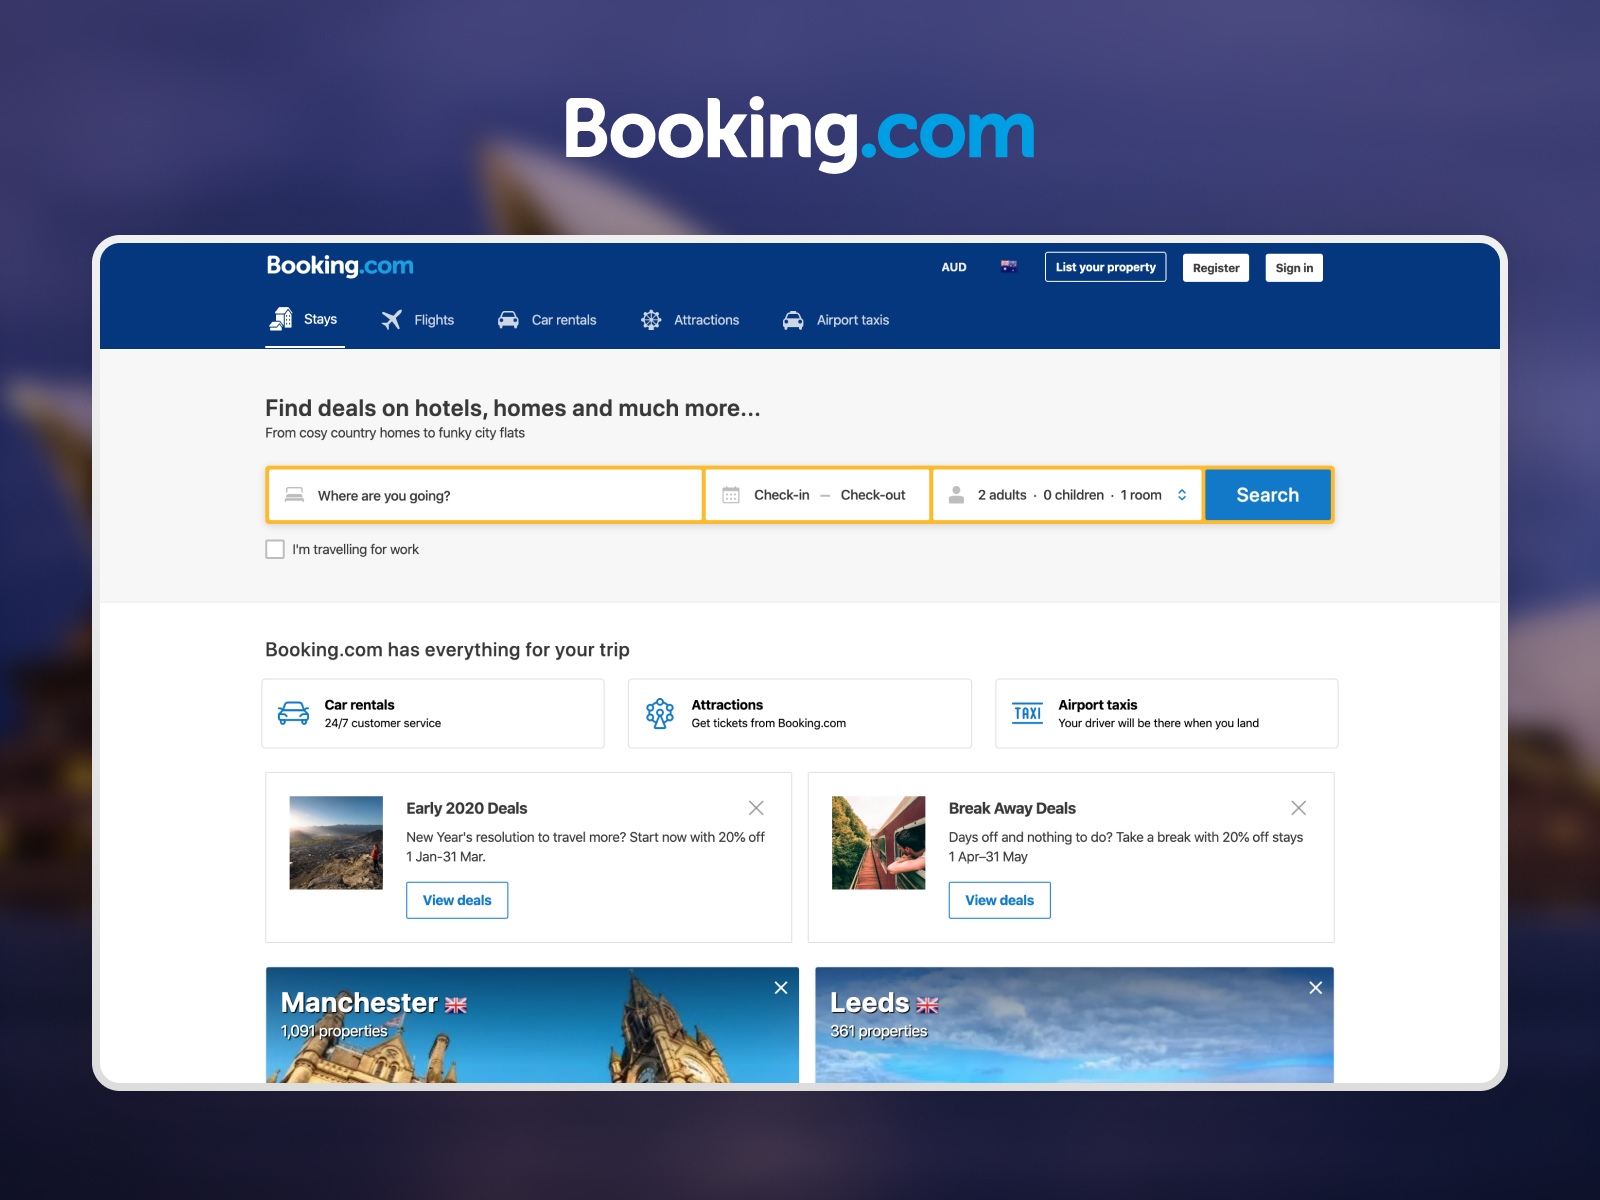
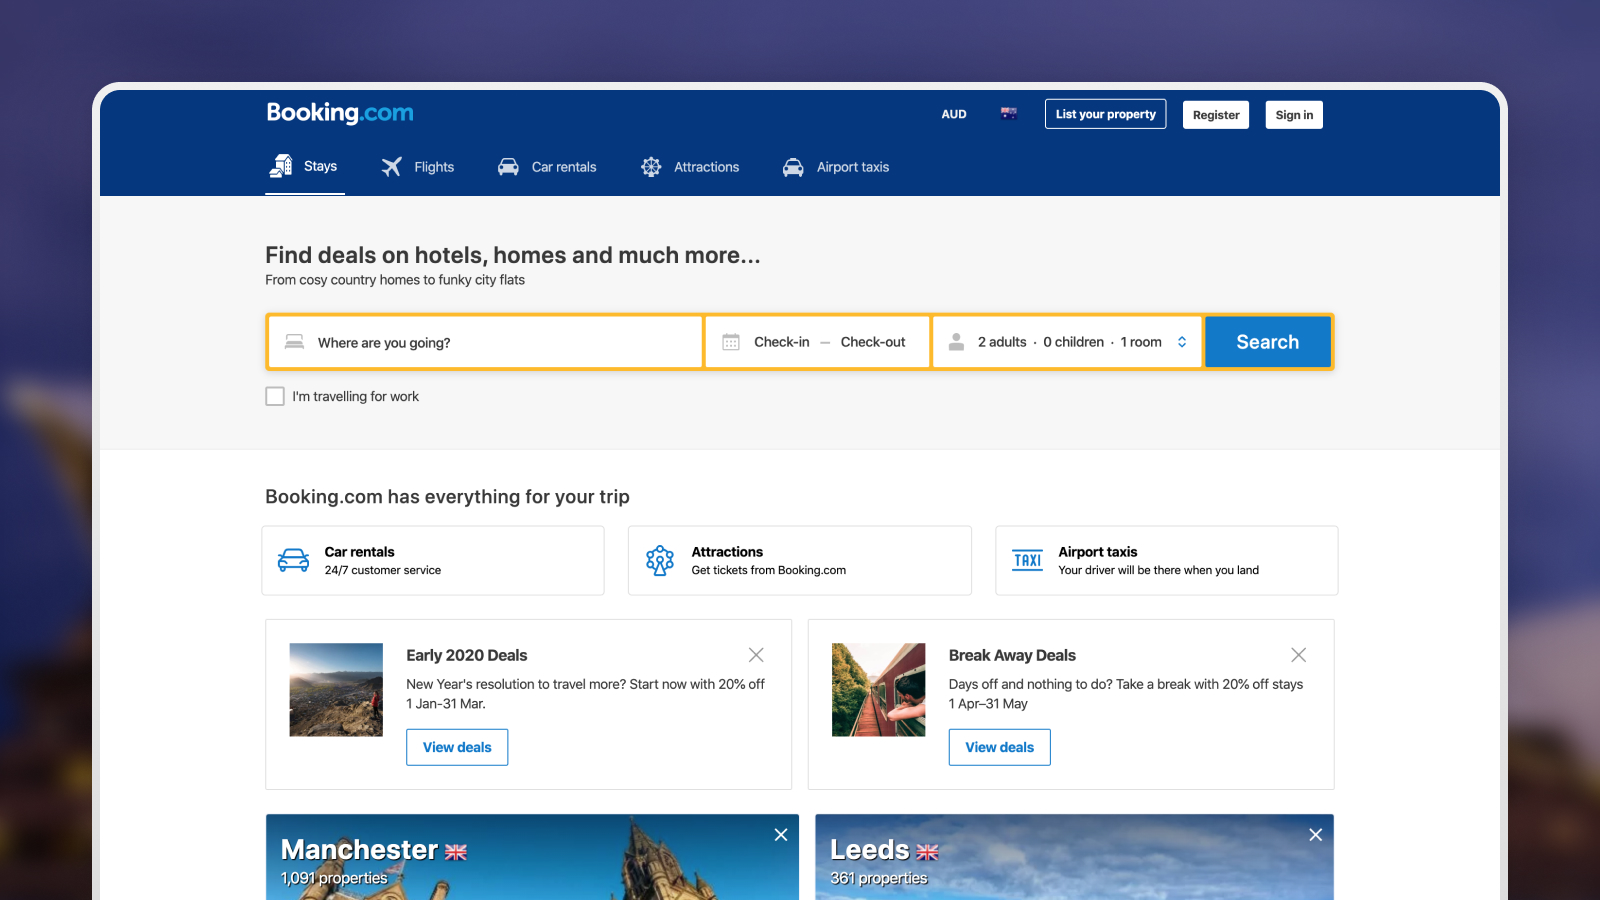
new primary colour

diff --git a/index.html b/index.html
@@ -25,7 +25,7 @@ activeNav: 1
       <div class="showcaseCardsCard">
         <a class="card" href="/portfolio#gizaAR">
           <div class="cardImage">
-            <img src="/assets/images/portfolio_giza_3.jpg" alt="" width="1600" height="1200">
+            <img src="/assets/images/portfolio_giza_3.jpg" alt="" width="1600" height="900">
           </div>
           <h3>Giza AR</h3>
           <p>Creating an AR "window into the past" at the Great Pyramids of Giza, Egypt.</p>
@@ -34,7 +34,7 @@ activeNav: 1
       <div class="showcaseCardsCard">
         <a class="card" href="/portfolio#Booking">
           <div class="cardImage">
-            <img src="/assets/images/portfolio_booking_1.jpg" alt="" width="1600" height="1200">
+            <img src="/assets/images/portfolio_booking_1.jpg" alt="" width="1600" height="900">
           </div>
           <h3>Booking.com</h3>
           <p>Designing the payment experience at Booking.com headquarters in Amsterdam, Netherlands.</p>
@@ -43,7 +43,7 @@ activeNav: 1
       <div class="showcaseCardsCard">
         <a class="card" href="/portfolio#GA">
           <div class="cardImage">
-            <img src="/assets/images/portfolio_ga_1.jpg" alt="" width="1600" height="1200">
+            <img src="/assets/images/portfolio_ga_1.jpg" alt="" width="1600" height="900">
           </div>
           <h3>Teaching UX Design at General Assembly</h3>
           <p>Leading the kickstart of 18 new design careers in Melbourne, Australia.</p>
@@ -52,7 +52,7 @@ activeNav: 1
       <div class="showcaseCardsCard">
         <a class="card" href="/portfolio#publicArt">
           <div class="cardImage">
-            <img src="/assets/images/portfolio_publicArt_1.jpg" alt="" width="1600" height="1200">
+            <img src="/assets/images/portfolio_publicArt_1.jpg" alt="" width="1600" height="900">
           </div>
           <h3>Boston North End Public Art</h3>
           <p>An AR app aimed at cultural preservation an iconic neighbourhood in Boston, USA.</p>
@@ -61,7 +61,7 @@ activeNav: 1
       <div class="showcaseCardsCard">
         <a class="card" href="/portfolio#ideaverse">
           <div class="cardImage">
-            <img src="/assets/images/portfolio_ideaverse_1.jpg" alt="" width="1600" height="1200">
+            <img src="/assets/images/portfolio_ideaverse_1.jpg" alt="" width="1600" height="900">
           </div>
           <h3>Ideaverse Machine Learning App</h3>
           <p>Going from concept to prototype for an AI startup in Berlin, Germany.</p>
@@ -70,7 +70,7 @@ activeNav: 1
       <div class="showcaseCardsCard">
         <a class="card" href="/portfolio#ZJUMAA">
           <div class="cardImage">
-            <img src="/assets/images/portfolio_zjumaa_4.jpg" alt="" width="1600" height="1200">
+            <img src="/assets/images/portfolio_zjumaa_4.jpg" alt="" width="1600" height="900">
           </div>
           <h3>AR Tour App for Zhejiang University Museum</h3>
           <p>Designing a captivating AR experience for a brand new archaeology museum in Zheijiang, China.</p>
@@ -88,7 +88,7 @@ activeNav: 1
       <div class="showcaseCardsCard">
         <a class="card" href="/portfolio#nsw">
           <div class="cardImage">
-            <img src="/assets/images/portfolio_nsw_1.jpg" alt="" width="1600" height="1200">
+            <img src="/assets/images/portfolio_nsw_1.jpg" alt="" width="1600" height="900">
           </div>
           <h3>NSW Climate Data Portal</h3>
           <p>Designing an open data portal holding terabytes of climate data for the New South Wales government.</p>

diff --git a/_sass/modules/_quote.sass b/_sass/modules/_quote.sass
@@ -56,7 +56,7 @@
   @media (min-width: $breakpoint_2)
     margin-right: 25px
   img
-    border: 4px solid $color_primary_600
+    border: 4px solid $color_primary_500
     border-radius: 50%
     display: block
     height: 70px
@@ -70,7 +70,7 @@
   a
     +body2
     border-bottom: none
-    color: $color_primary_600
+    color: $color_primary_500
     display: block
     font-weight: 700
     margin-bottom: 5px

diff --git a/_sass/utilities/_settings.sass b/_sass/utilities/_settings.sass
@@ -1,5 +1,5 @@
 // Colours
-$color_primary_500: #2e0ea1
+$color_primary_500: #3510b8
 $color_primary_50: lighten($color_primary_500, 62%)
 $color_primary_100: lighten($color_primary_500, 54%)
 $color_primary_200: lighten($color_primary_500, 40%)

diff --git a/_sass/modules/_card.sass b/_sass/modules/_card.sass
@@ -13,7 +13,7 @@
   h3
     +h4
     color: $color_grey_700
-    margin-bottom: 6px
+    margin-bottom: 10px
   p
     +body2
     color: $color_grey_500
